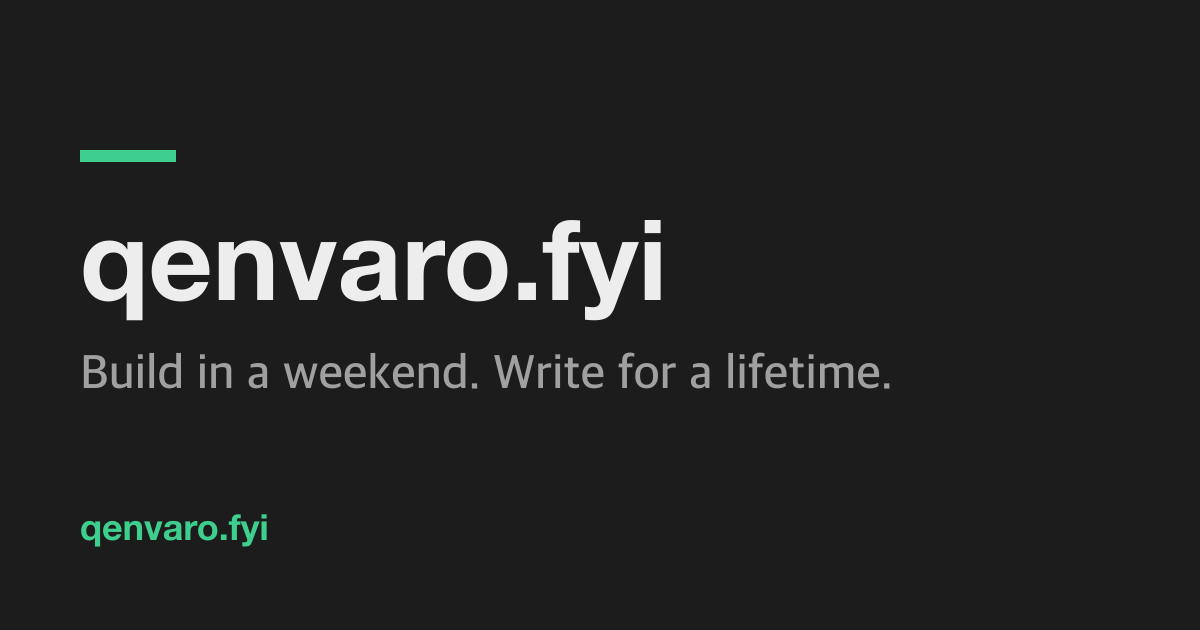
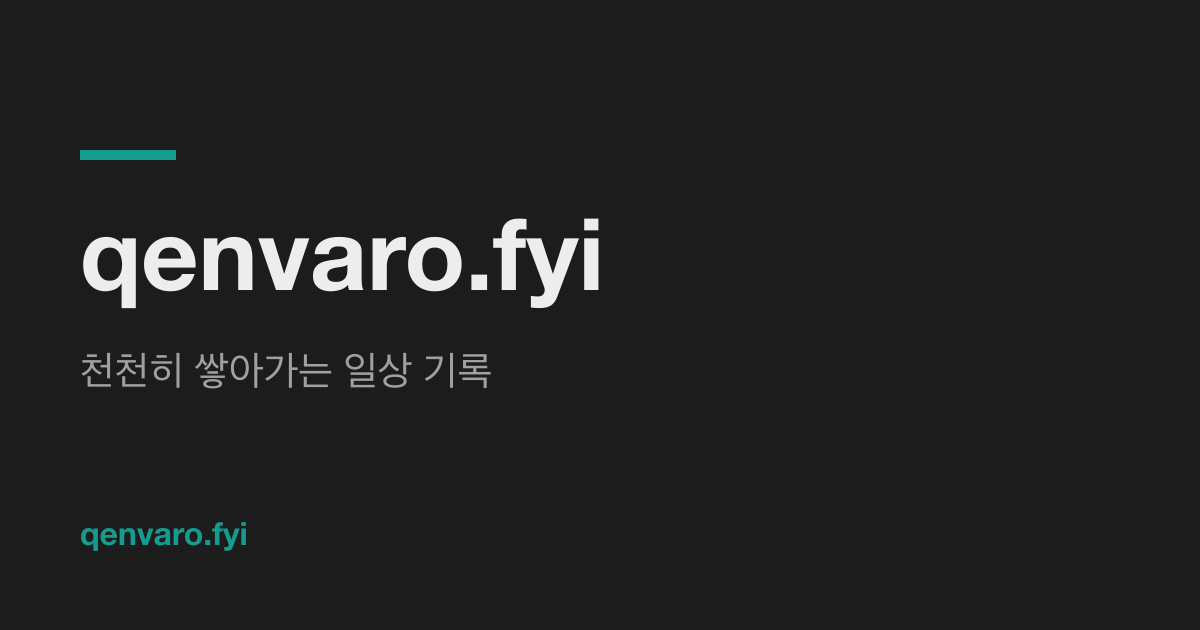
fix: 소개·사이트 설명에서 개발자 관련 문구 제거

diff --git a/src/config.ts b/src/config.ts
@@ -1,6 +1,6 @@
 export const SITE = {
   title: 'qenvaro.fyi',
-  tagline: 'Build in a weekend. Write for a lifetime.',
+  tagline: '천천히 쌓아가는 일상 기록',
   description: '기록하고, 배우고, 공유하는 블로그.',
   author: 'qenvaro',
   locale: 'ko-KR',
@@ -12,8 +12,8 @@ export const SITE = {
 // 홈 히어로 문구
 export const HERO = {
   eyebrow: 'Now writing',
-  title: 'Build in a weekend.',
-  highlight: 'Write for a lifetime.',
+  title: '오늘 해 본 것,',
+  highlight: '천천히 적어 두기.',
 } as const;
 
 // 서치콘솔 소유 확인 코드. 값이 있을 때만 meta 태그를 출력한다.

diff --git a/src/pages/about.md b/src/pages/about.md
@@ -1,11 +1,11 @@
 ---
 layout: ../layouts/ArticleLayout.astro
 title: About
-description: 백엔드 개발자의 개인 기록장.
+description: 평범한 사람의 개인 기록장.
 ---
 
-낮에는 서버와 데이터베이스를 만지는 개발자다. 주로 Postgres 위에서 API를 만들고, 쿼리가 느려지면 불려 가는 쪽이다.
+평범하게 지내는 사람이다. 일상에서 해 본 것, 써 본 것들을 여기에 적는다.
 
-여기에는 일하다 삽질한 기록을 남긴다. 인덱스를 잘못 걸어서 느려진 쿼리, 롤백하다 터진 마이그레이션 같은 것들이다. 나중에 같은 실수를 또 하지 않으려고 쓴다. 가끔은 주말에 뭐 했는지 같은 일상도 적는다.
+거창한 건 없다. 나중에 다시 꺼내 보려고 남기는 기록이다.
 
-글은 정리가 덜 됐을 수 있다. 틀린 내용이 보이면 편하게 알려주면 좋겠다.
+틀린 내용이 보이면 편하게 알려주면 좋겠다.
